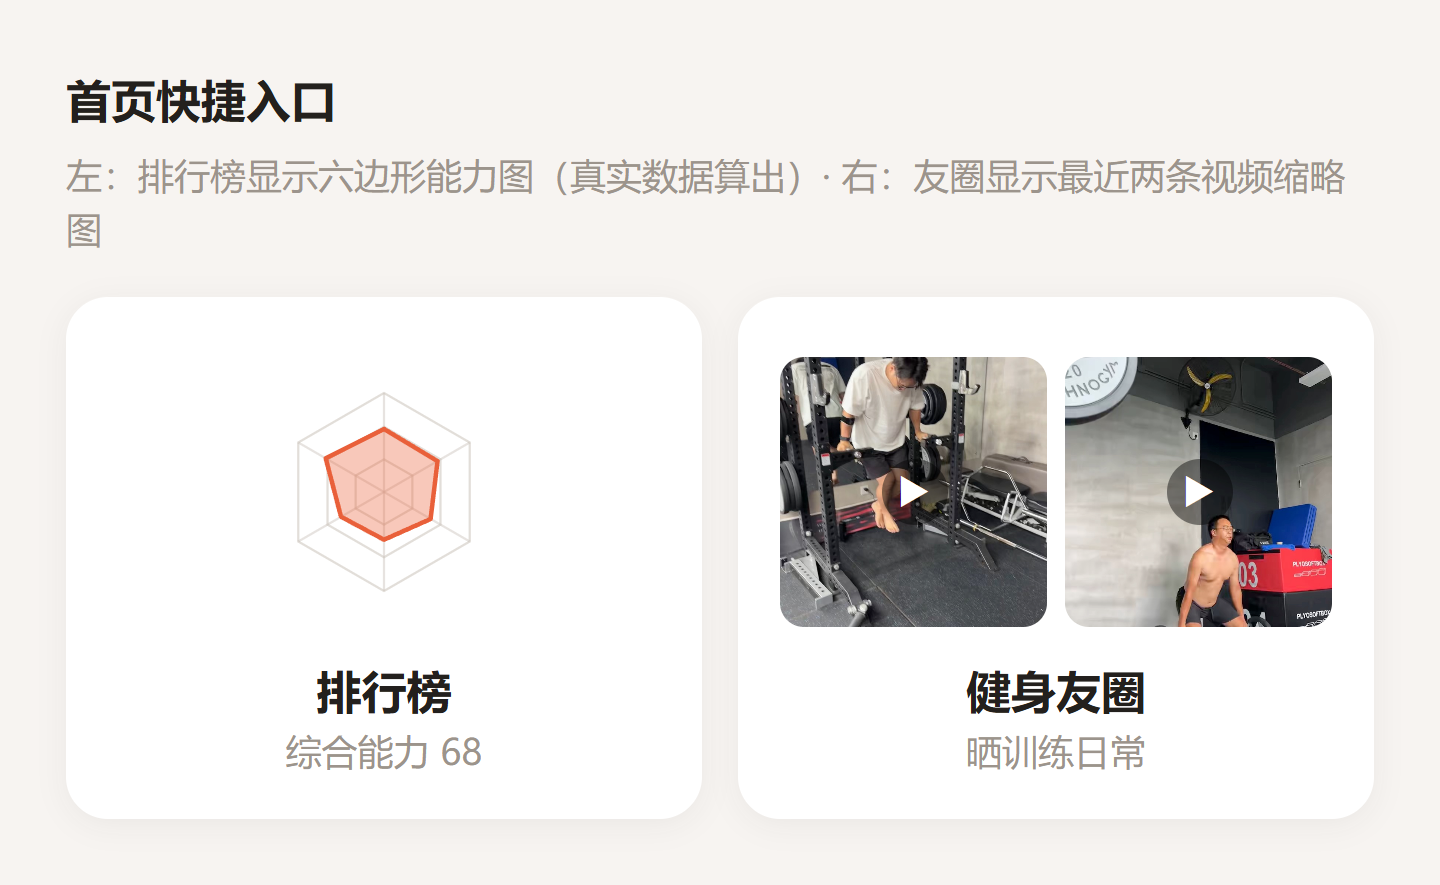
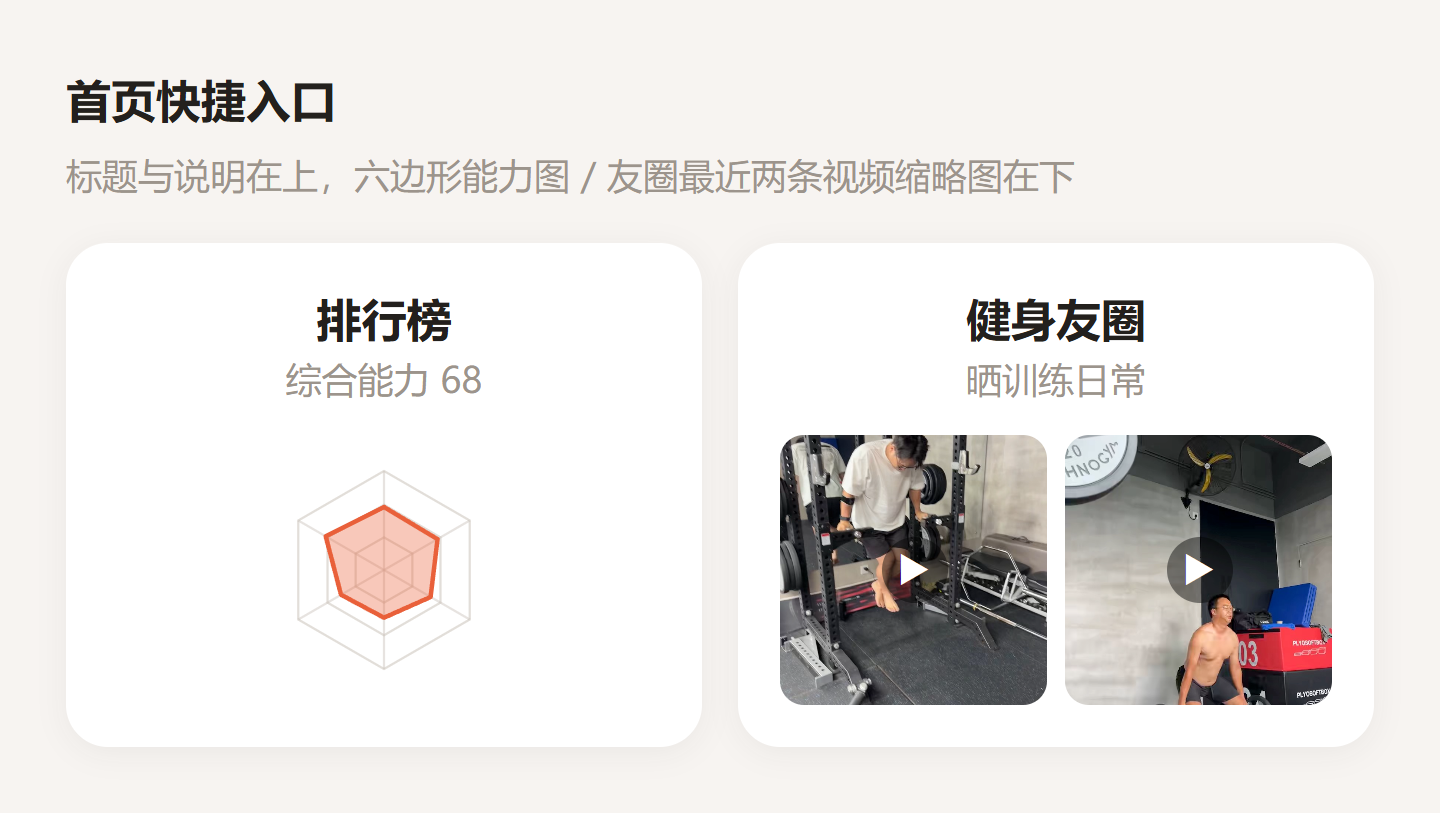
fix: 快捷入口改为「标题在上、图形在下」
之前把六边形能力图和友圈缩略图放在了标题上方，看起来是反的。
现在两个格子都是：
  标题（排行榜 / 健身友圈）
  说明（综合能力 N / 晒训练日常）
  图形（六边形能力图 / 最近两条视频缩略图）

改动：
- index.wxml 调整两个格子的子元素顺序
- index.wxss 图形间距从 margin-bottom 改为 margin-top

验证（开发者工具实测坐标）：
  格子1: 排行榜 y=130 → 说明 y=153 → 六边形 y=183
  格子2: 健身友圈 y=130 → 说明 y=153 → 缩略图 y=178
  格子尺寸与点击跳转不变

效果图已更新 docs/ui/quick-entry.png，上传 1.4.4。

diff --git a/scripts/browser/render-quick-entry.js b/scripts/browser/render-quick-entry.js
@@ -1,4 +1,4 @@
-// 生成快捷入口效果图：六边形能力图 + 友圈视频缩略图
+// 生成快捷入口效果图（标题在上、图形在下）
 const fs = require('fs')
 const puppeteer = require('puppeteer-core')
 
@@ -14,56 +14,48 @@ const values = api.radarValues({
 const radarUri = api.radarSvg(values)
 const score = Math.round(values[values.length - 1].value)
 
-// 用线上真实的两个视频封面
 const THUMBS = [
   'https://gym.novrein.com/api/media/8d5a4bc53f9e6d4721f7c94035a32a3f',
   'https://gym.novrein.com/api/media/213092ac37cc92650995343794ccee17'
 ]
 
-const html = `<!DOCTYPE html><html><head><meta charset="utf-8"><style>
-  * { box-sizing: border-box; margin: 0; padding: 0; }
-  body { background: #f7f4f1; padding: 22px; font: 14px/1.5 -apple-system, "Microsoft YaHei", sans-serif; width: 480px; }
-  h1 { font-size: 15px; color: #23201d; margin-bottom: 4px; }
-  .lead { font-size: 12px; color: #9c948c; margin-bottom: 14px; }
-  .quick { display: flex; }
-  .q {
-    flex: 1; background: #fff; border-radius: 14px; padding: 14px;
-    box-shadow: 0 2px 10px rgba(35,32,29,.06);
-    display: flex; flex-direction: column; align-items: center;
-  }
-  .q + .q { margin-left: 12px; }
-  .radar {
-    width: 90px; height: 90px; margin: 6px 0 10px;
-    background-repeat: no-repeat; background-position: center; background-size: contain;
-  }
-  .thumbs { display: flex; gap: 6px; height: 90px; width: 100%; margin: 6px 0 10px; }
-  .thumb-wrap { flex: 1; position: relative; border-radius: 8px; overflow: hidden; background: #f4efea; }
-  .thumb { width: 100%; height: 100%; object-fit: cover; display: block; }
-  .play {
-    position: absolute; left: 50%; top: 50%; transform: translate(-50%,-50%);
-    width: 22px; height: 22px; border-radius: 50%; background: rgba(0,0,0,.45);
-    color: #fff; font-size: 11px; line-height: 22px; text-align: center;
-  }
-  .t { font-size: 15px; font-weight: 600; color: #23201d; }
-  .d { font-size: 12px; color: #9c948c; }
-</style></head><body>
-  <h1>首页快捷入口</h1>
-  <div class="lead">左：排行榜显示六边形能力图（真实数据算出）· 右：友圈显示最近两条视频缩略图</div>
-  <div class="quick">
-    <div class="q">
-      <div class="radar" style="background-image:url('${radarUri}')"></div>
-      <div class="t">排行榜</div>
-      <div class="d">综合能力 ${score}</div>
-    </div>
-    <div class="q">
-      <div class="thumbs">
-        ${THUMBS.map(u => `<div class="thumb-wrap"><img class="thumb" src="${u}"><div class="play">▶</div></div>`).join('')}
-      </div>
-      <div class="t">健身友圈</div>
-      <div class="d">晒训练日常</div>
-    </div>
-  </div>
-</body></html>`
+const thumbHtml = THUMBS
+  .map(u => '<div class="thumb-wrap"><img class="thumb" src="' + u + '"><div class="play">▶</div></div>')
+  .join('')
+
+const html = [
+  '<!DOCTYPE html><html><head><meta charset="utf-8"><style>',
+  '* { box-sizing: border-box; margin: 0; padding: 0; }',
+  'body { background: #f7f4f1; padding: 22px; font: 14px/1.5 -apple-system, "Microsoft YaHei", sans-serif; width: 480px; }',
+  'h1 { font-size: 15px; color: #23201d; margin-bottom: 4px; }',
+  '.lead { font-size: 12px; color: #9c948c; margin-bottom: 14px; }',
+  '.quick { display: flex; }',
+  '.q { flex: 1; background: #fff; border-radius: 14px; padding: 14px; box-shadow: 0 2px 10px rgba(35,32,29,.06); display: flex; flex-direction: column; align-items: center; }',
+  '.q + .q { margin-left: 12px; }',
+  '.t { font-size: 15px; font-weight: 600; color: #23201d; }',
+  '.d { font-size: 12px; color: #9c948c; }',
+  '.radar { width: 90px; height: 90px; margin-top: 10px; background-repeat: no-repeat; background-position: center; background-size: contain; }',
+  '.thumbs { display: flex; gap: 6px; height: 90px; width: 100%; margin-top: 10px; }',
+  '.thumb-wrap { flex: 1; position: relative; border-radius: 8px; overflow: hidden; background: #f4efea; }',
+  '.thumb { width: 100%; height: 100%; object-fit: cover; display: block; }',
+  '.play { position: absolute; left: 50%; top: 50%; transform: translate(-50%,-50%); width: 22px; height: 22px; border-radius: 50%; background: rgba(0,0,0,.45); color: #fff; font-size: 11px; line-height: 22px; text-align: center; }',
+  '</style></head><body>',
+  '<h1>首页快捷入口</h1>',
+  '<div class="lead">标题与说明在上，六边形能力图 / 友圈最近两条视频缩略图在下</div>',
+  '<div class="quick">',
+  '  <div class="q">',
+  '    <div class="t">排行榜</div>',
+  '    <div class="d">综合能力 ' + score + '</div>',
+  '    <div class="radar" style="background-image:url(\'' + radarUri + '\')"></div>',
+  '  </div>',
+  '  <div class="q">',
+  '    <div class="t">健身友圈</div>',
+  '    <div class="d">晒训练日常</div>',
+  '    <div class="thumbs">' + thumbHtml + '</div>',
+  '  </div>',
+  '</div>',
+  '</body></html>'
+].join('\n')
 
 const out = 'C:/Users/yuuolo/Documents/deepseek/.dsh-tools/ui-preview'
 fs.writeFileSync(out + '/quick-entry.html', html)

diff --git a/scripts/swap-quick-order.js b/scripts/swap-quick-order.js
@@ -1,0 +1,104 @@
+// 快捷入口：把标题/说明挪到图形上方
+const fs = require('fs')
+
+const MP = 'C:/Users/yuuolo/Documents/deepseek/fitness-miniapp/miniprogram'
+
+// ---------- WXML ----------
+{
+  const p = MP + '/pages/index/index.wxml'
+  let t = fs.readFileSync(p, 'utf8')
+
+  const oldRank = `        <view wx:if="{{features.rank !== false}}" class="q q-rank" bindtap="goRank">
+          <view class="radar-wrap">
+            <view wx:if="{{radarSvg}}" class="radar" style="background-image:url('{{radarSvg}}')"></view>
+            <view wx:else class="radar radar-empty">
+              <text class="radar-hint">还没有数据</text>
+            </view>
+          </view>
+          <view class="q-t">排行榜</view>
+          <view class="muted">{{radarScore !== null ? '综合能力 ' + radarScore : '录一次体测就能看到'}}</view>
+        </view>`
+
+  const newRank = `        <view wx:if="{{features.rank !== false}}" class="q q-rank" bindtap="goRank">
+          <view class="q-t">排行榜</view>
+          <view class="muted">{{radarScore !== null ? '综合能力 ' + radarScore : '录一次体测就能看到'}}</view>
+          <view class="radar-wrap">
+            <view wx:if="{{radarSvg}}" class="radar" style="background-image:url('{{radarSvg}}')"></view>
+            <view wx:else class="radar radar-empty">
+              <text class="radar-hint">还没有数据</text>
+            </view>
+          </view>
+        </view>`
+
+  const oldMoments = `        <view wx:if="{{features.moments !== false}}" class="q q-moments" bindtap="goMoments">
+          <view class="thumbs">`
+
+  const newMoments = `        <view wx:if="{{features.moments !== false}}" class="q q-moments" bindtap="goMoments">
+          <view class="q-t">健身友圈</view>
+          <view class="muted">晒训练日常</view>
+          <view class="thumbs">`
+
+  // 友圈：删掉原来在图形下面的标题与说明
+  const oldMomentsTail = `          </view>
+          <view class="q-t">健身友圈</view>
+          <view class="muted">晒训练日常</view>
+        </view>`
+  const newMomentsTail = `          </view>
+        </view>`
+
+  let ok = true
+  if (t.includes(oldRank)) t = t.replace(oldRank, newRank)
+  else { console.log('⚠ 排行榜块未匹配'); ok = false }
+
+  if (t.includes(oldMoments)) t = t.replace(oldMoments, newMoments)
+  else { console.log('⚠ 友圈块开头未匹配'); ok = false }
+
+  if (t.includes(oldMomentsTail)) t = t.replace(oldMomentsTail, newMomentsTail)
+  else { console.log('⚠ 友圈块结尾未匹配'); ok = false }
+
+  if (ok) {
+    fs.writeFileSync(p, t)
+    console.log('✓ WXML 顺序已调整：标题在上、图形在下')
+  }
+}
+
+// ---------- WXSS：图形改为顶部留白 ----------
+{
+  const p = MP + '/pages/index/index.wxss'
+  let t = fs.readFileSync(p, 'utf8')
+
+  t = t.replace(
+    `.radar-wrap {
+  height: 150rpx;
+  display: flex;
+  align-items: center;
+  justify-content: center;
+  margin-bottom: 12rpx;
+}`,
+    `.radar-wrap {
+  height: 150rpx;
+  display: flex;
+  align-items: center;
+  justify-content: center;
+  margin-top: 12rpx;
+}`
+  )
+
+  t = t.replace(
+    `.thumbs {
+  display: flex;
+  gap: 12rpx;
+  height: 150rpx;
+  margin-bottom: 12rpx;
+}`,
+    `.thumbs {
+  display: flex;
+  gap: 12rpx;
+  height: 150rpx;
+  margin-top: 12rpx;
+}`
+  )
+
+  fs.writeFileSync(p, t)
+  console.log('✓ WXSS 间距已改为图形顶部留白')
+}

diff --git a/scripts/automator/probe-quick-layout.js b/scripts/automator/probe-quick-layout.js
@@ -1,0 +1,41 @@
+// 量快捷入口两个格子里「标题」和「图形」的实际位置
+const automator = require('miniprogram-automator')
+const sleep = ms => new Promise(r => setTimeout(r, ms))
+
+;(async () => {
+  const mp = await automator.connect({ wsEndpoint: process.env.AUTO_ENDPOINT || 'ws://127.0.0.1:9421' })
+  await mp.reLaunch('/pages/index/index')
+  await sleep(4500)
+  const page = await mp.currentPage()
+
+  const qs = await page.$$('.q')
+  console.log('格子数: ' + qs.length)
+  for (let i = 0; i < qs.length; i++) {
+    const cls = await qs[i].attribute('class')
+    const box = await qs[i].size()
+    const off = await qs[i].offset()
+    const text = String(await qs[i].text()).replace(/\s+/g, ' ').trim()
+    console.log('\n格子 #' + (i + 1) + ' class=' + cls)
+    console.log('  位置 y=' + off.top + ' 尺寸 ' + box.width + 'x' + box.height)
+    console.log('  文本: ' + text.slice(0, 60))
+
+    // 格子内部的子元素
+    const radar = await qs[i].$$('.radar')
+    const thumbs = await qs[i].$$('.thumb')
+    const title = await qs[i].$$('.q-t')
+    const desc = await qs[i].$$('.muted')
+    const detail = async (sel, els) => {
+      for (const el of els) {
+        const b = await el.size()
+        const o = await el.offset()
+        console.log('    ' + sel + ' y=' + o.top + ' h=' + b.height + ' 文本=' + String(await el.text()).replace(/\s+/g, ' ').trim().slice(0, 30))
+      }
+    }
+    await detail('.radar', radar)
+    await detail('.thumb', thumbs)
+    await detail('.q-t', title)
+    await detail('.muted', desc)
+  }
+
+  await mp.disconnect()
+})().catch(e => { console.error('异常:', e.message); process.exit(1) })
